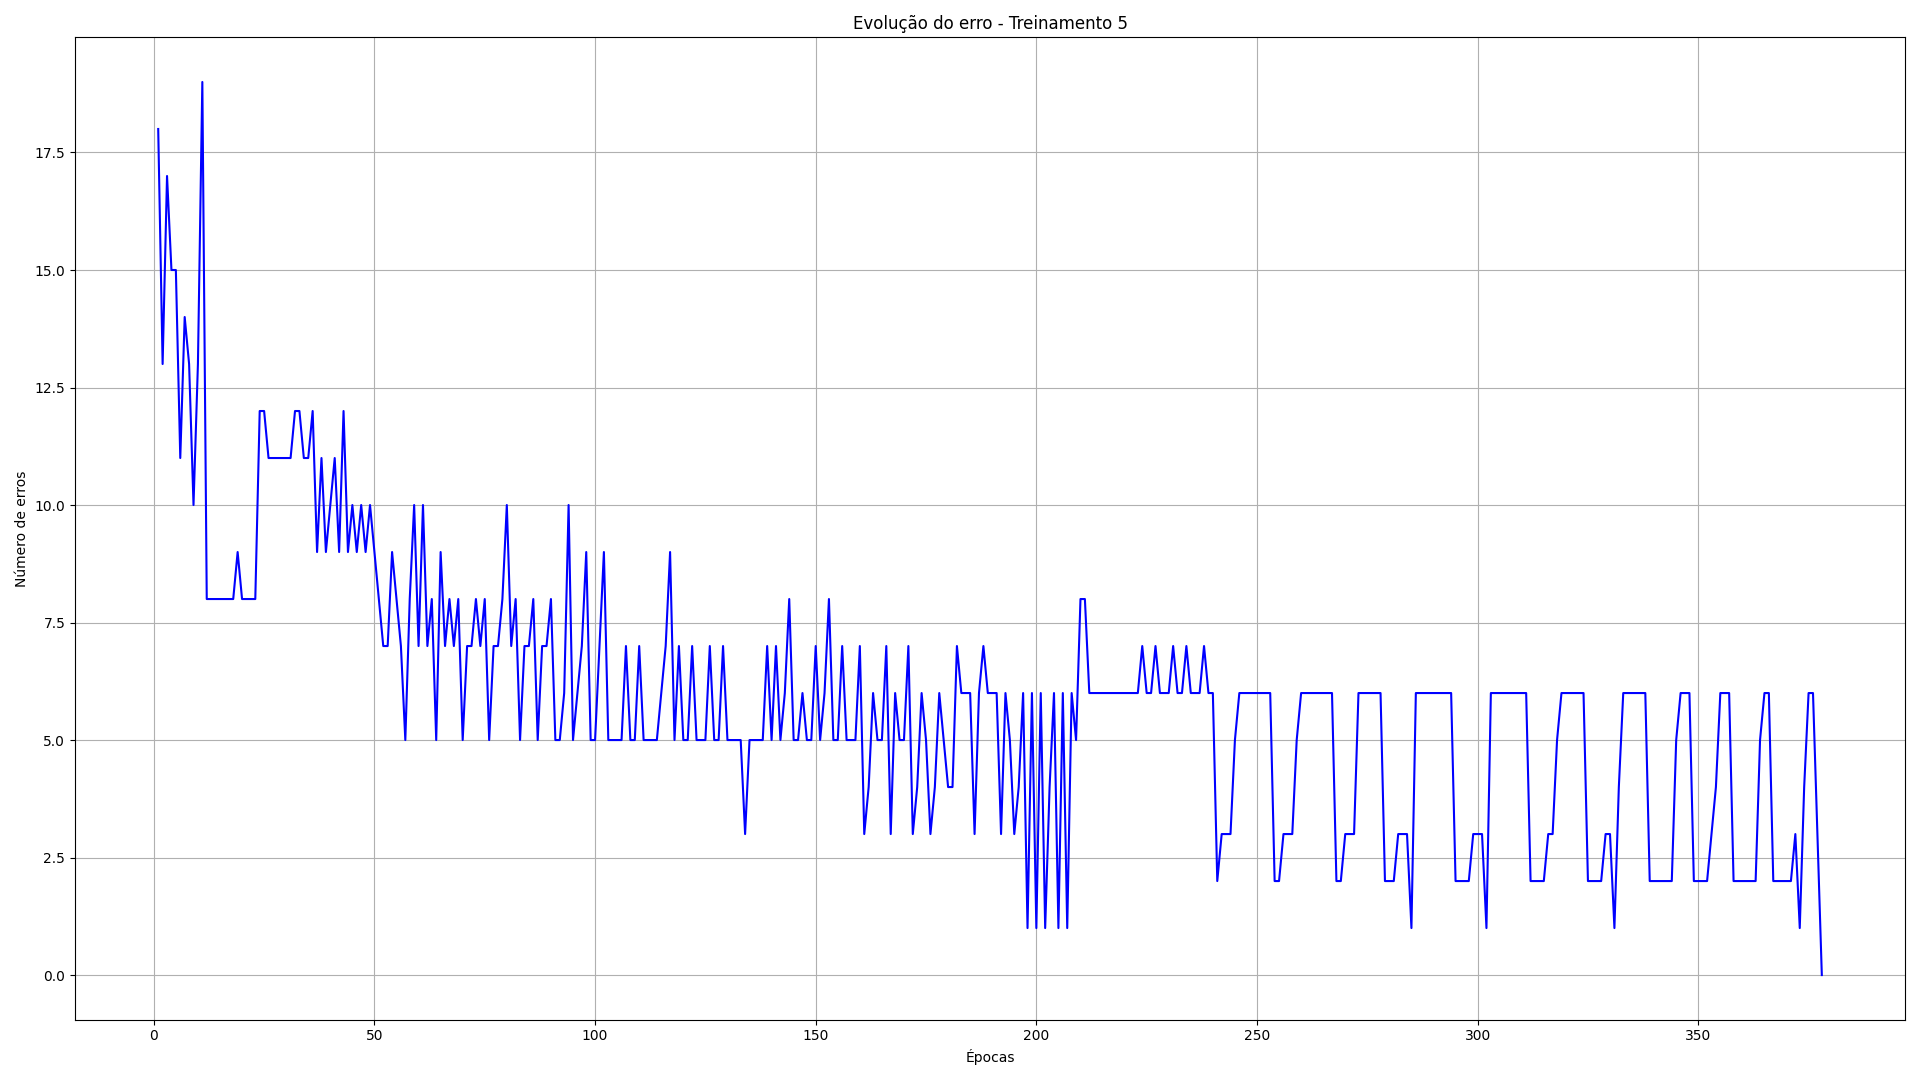
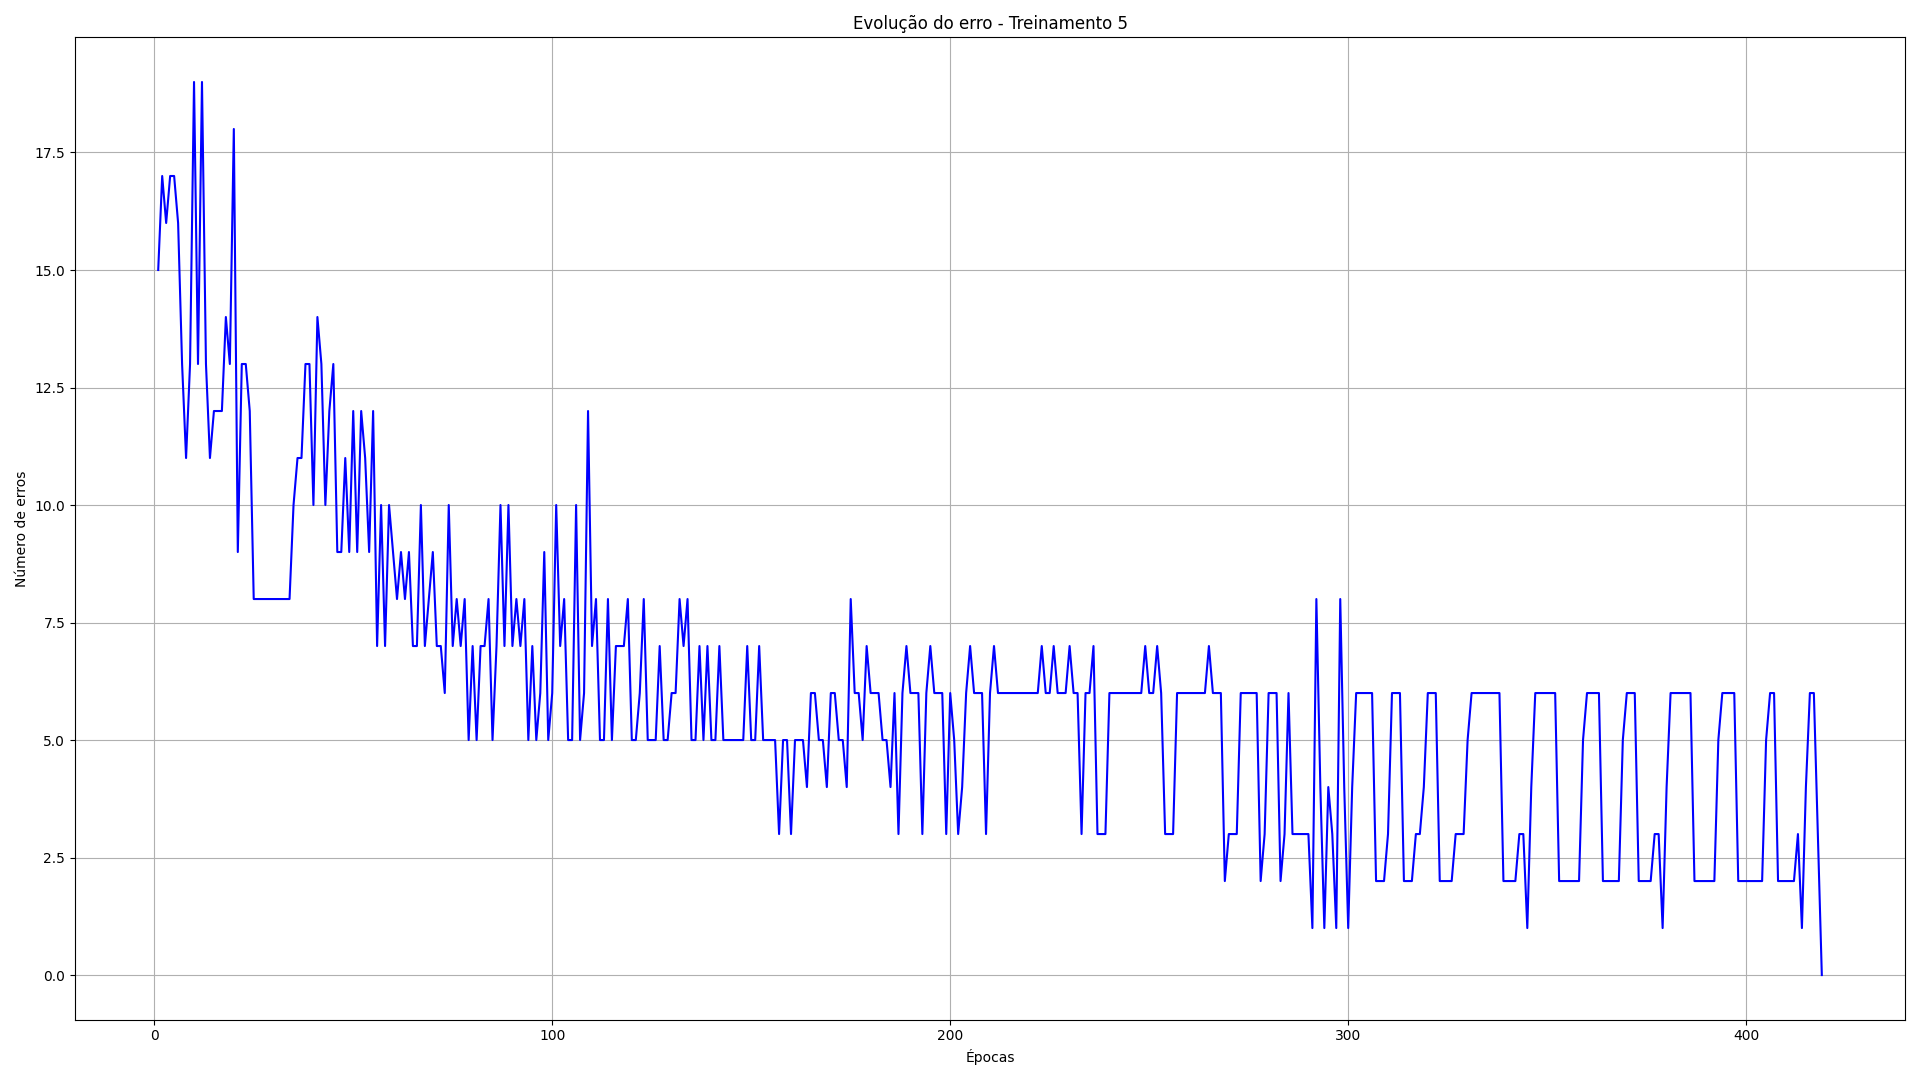
Update README with additional library and installation instructions; modify learning rate in perceptron.py

Changed region(s): [[0.0625, 0.0917, 0.9688, 0.8556], [0.2812, 0.9472, 0.3125, 0.9778]]

diff --git a/perceptron.py b/perceptron.py
@@ -16,7 +16,7 @@ df_resultados = pd.read_excel(RESULTADOS_PATH)
 
 
 treinamento = 1
-taxaDeAprendizagem = 0.01;
+taxaDeAprendizagem = 0.25;
 
 resultados.limpar(df_resultados)
 

diff --git a/READ-ME.md b/READ-ME.md
@@ -1,6 +1,7 @@
 Bibliotecas que precisam ser instaladas:
   - pandas
   - openpyxl
+  - matplotlib
 
 
 Necessario criar e rodar um ambiente virtual
@@ -8,8 +9,10 @@ Necessario criar e rodar um ambiente virtual
 
 
 Instalação de bibliotecas necessárias no ambiente virtual
- - python -m pip install --upgrade pip
- - python -m pip install pandas openpyxl
+ -  pip install --upgrade pip
+ -  pip install pandas openpyxl matplotlib
+
+
 
 
 Acessar ambiente
